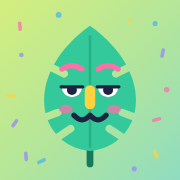
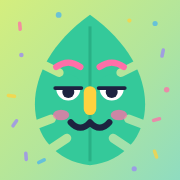
타이틀 크기 축소·라임→민트 색, 앱 아이콘 줄기 제거·잎 얼굴 확대
Claude-Session: https://claude.ai/code/session_01VntDstoBQq75JLBv8FqeFH

Changed region(s): [[0.1944, 0.0833, 0.8056, 0.9444]]

diff --git a/index.html b/index.html
@@ -22,7 +22,7 @@
   --bg:#f3fbf7; --surface:#ffffff; --fg:#10251d; --muted:#5a6f66; --line:#dcece4;
   --lime:#d4f53c; --lime-soft:#f1fbcb; --on-lime:#10251d;
   --mint:#6ee7c1; --mint-soft:#ddf8ee; --mint-deep:#0f8f68;
-  --idle:#e1eae6; --idle-fg:#6f8a80; --idle-hover:#d3e6de; --daisy-edge:#a9dcc6;
+  --idle:#e1eae6; --idle-fg:#6f8a80; --idle-hover:#d3e6de; --daisy-edge:#a9dcc6; --title-a:#6f9f12; --title-b:#0f8f68;
   --late:#e2552f; --late-soft:#fde4dc;
   --leaf-a:#34c99a; --leaf-b:#8fdb4e; --leaf-c:#137a5a;
   --tile1:#ddf8ee; --tile2:#f1fbcb;
@@ -36,7 +36,7 @@
   --bg:#0d1613; --surface:#15201c; --fg:#e6f2ec; --muted:#93a89f; --line:#24352e;
   --lime:#d4f53c; --lime-soft:#2b3413; --on-lime:#10251d;
   --mint:#6ee7c1; --mint-soft:#15302a; --mint-deep:#6ee7c1;
-  --idle:#223029; --idle-fg:#8fa79d; --idle-hover:#2a3d35; --daisy-edge:#4fae8c;
+  --idle:#223029; --idle-fg:#8fa79d; --idle-hover:#2a3d35; --daisy-edge:#4fae8c; --title-a:#d4f53c; --title-b:#6ee7c1;
   --late:#ff8a66; --late-soft:#3a2119;
   --leaf-a:#3ed6a5; --leaf-b:#a6e85e; --leaf-c:#0b5a42;
   --tile1:#173a30; --tile2:#2f3a14;
@@ -46,7 +46,7 @@
   --bg:#0d1613; --surface:#15201c; --fg:#e6f2ec; --muted:#93a89f; --line:#24352e;
   --lime:#d4f53c; --lime-soft:#2b3413; --on-lime:#10251d;
   --mint:#6ee7c1; --mint-soft:#15302a; --mint-deep:#6ee7c1;
-  --idle:#223029; --idle-fg:#8fa79d; --idle-hover:#2a3d35; --daisy-edge:#4fae8c;
+  --idle:#223029; --idle-fg:#8fa79d; --idle-hover:#2a3d35; --daisy-edge:#4fae8c; --title-a:#d4f53c; --title-b:#6ee7c1;
   --late:#ff8a66; --late-soft:#3a2119;
   --leaf-a:#3ed6a5; --leaf-b:#a6e85e; --leaf-c:#0b5a42;
   --tile1:#173a30; --tile2:#2f3a14;
@@ -85,7 +85,7 @@ input:focus{border-color:var(--mint)}
 .top{display:flex;justify-content:space-between;align-items:center;gap:12px;flex-wrap:wrap}
 .brand{display:flex;align-items:center;gap:10px}
 .brand .logo{width:32px;height:32px;flex:none;display:block}
-.brand h1{font-size:24px}
+.brand h1{font-size:19px;letter-spacing:-.01em;background:linear-gradient(90deg,var(--title-a),var(--title-b));-webkit-background-clip:text;background-clip:text;color:transparent;-webkit-text-fill-color:transparent}
 .date{color:var(--muted);font-size:13px}
 
 /* today banner */
